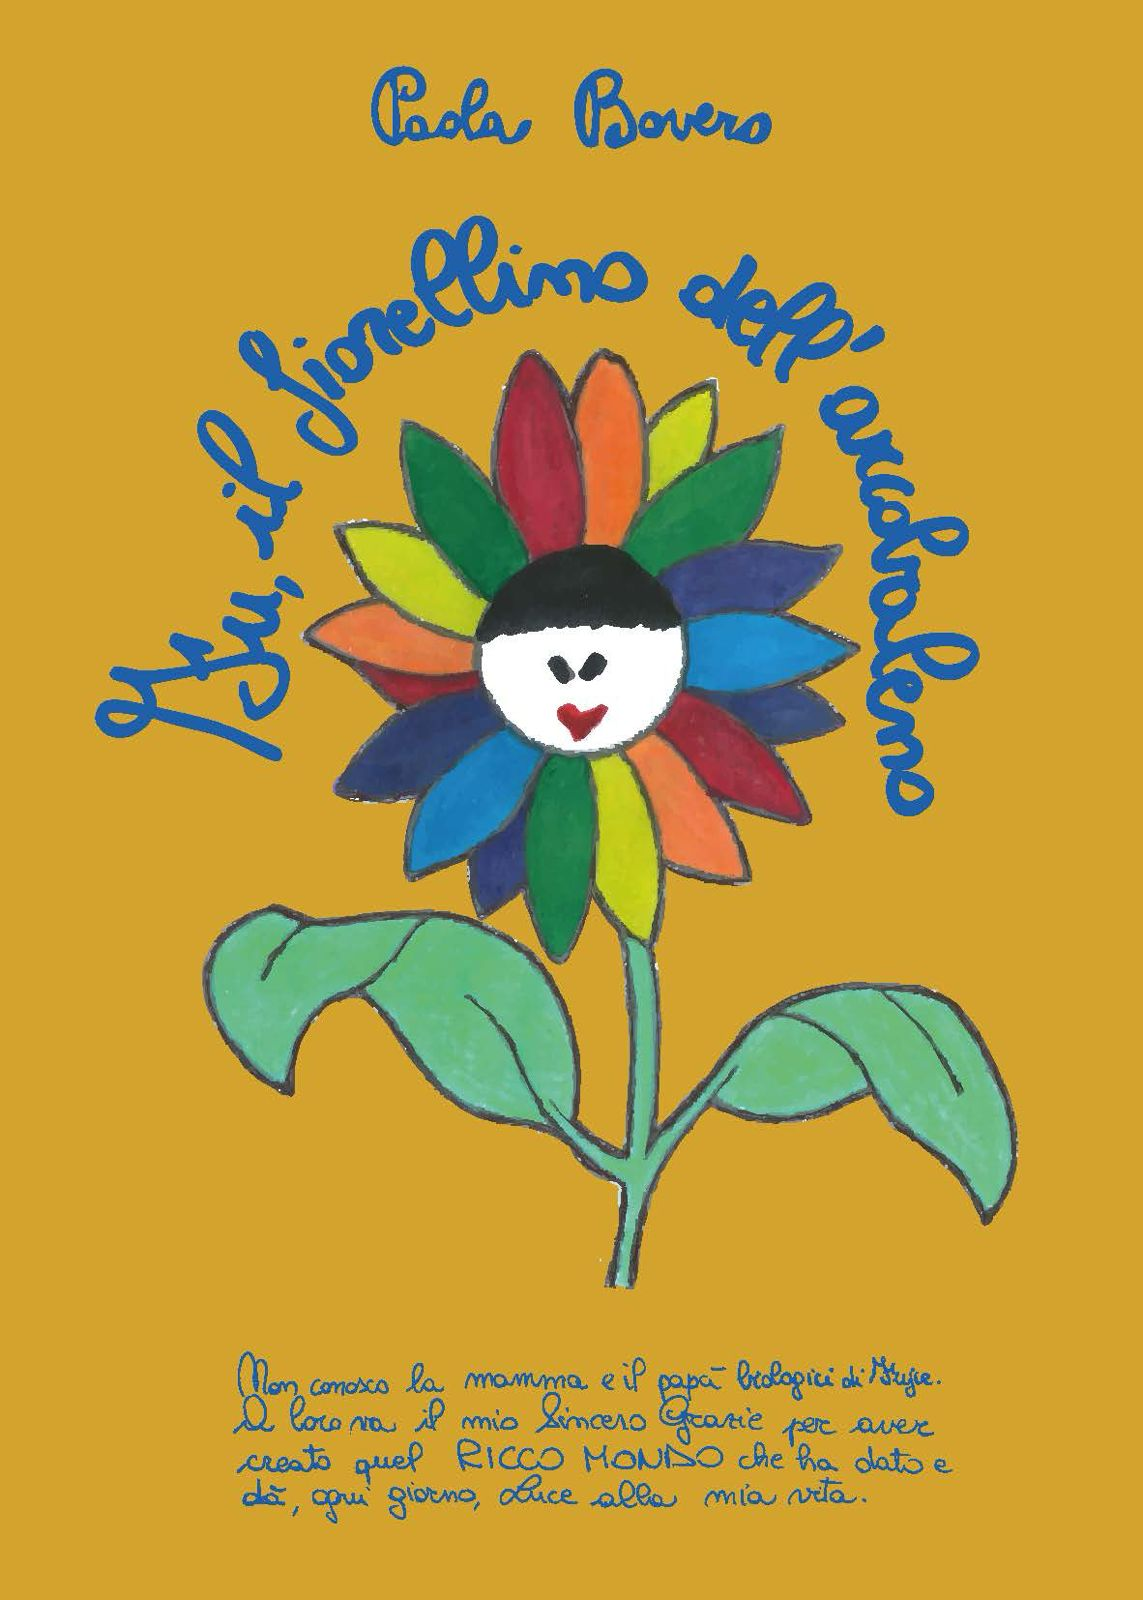
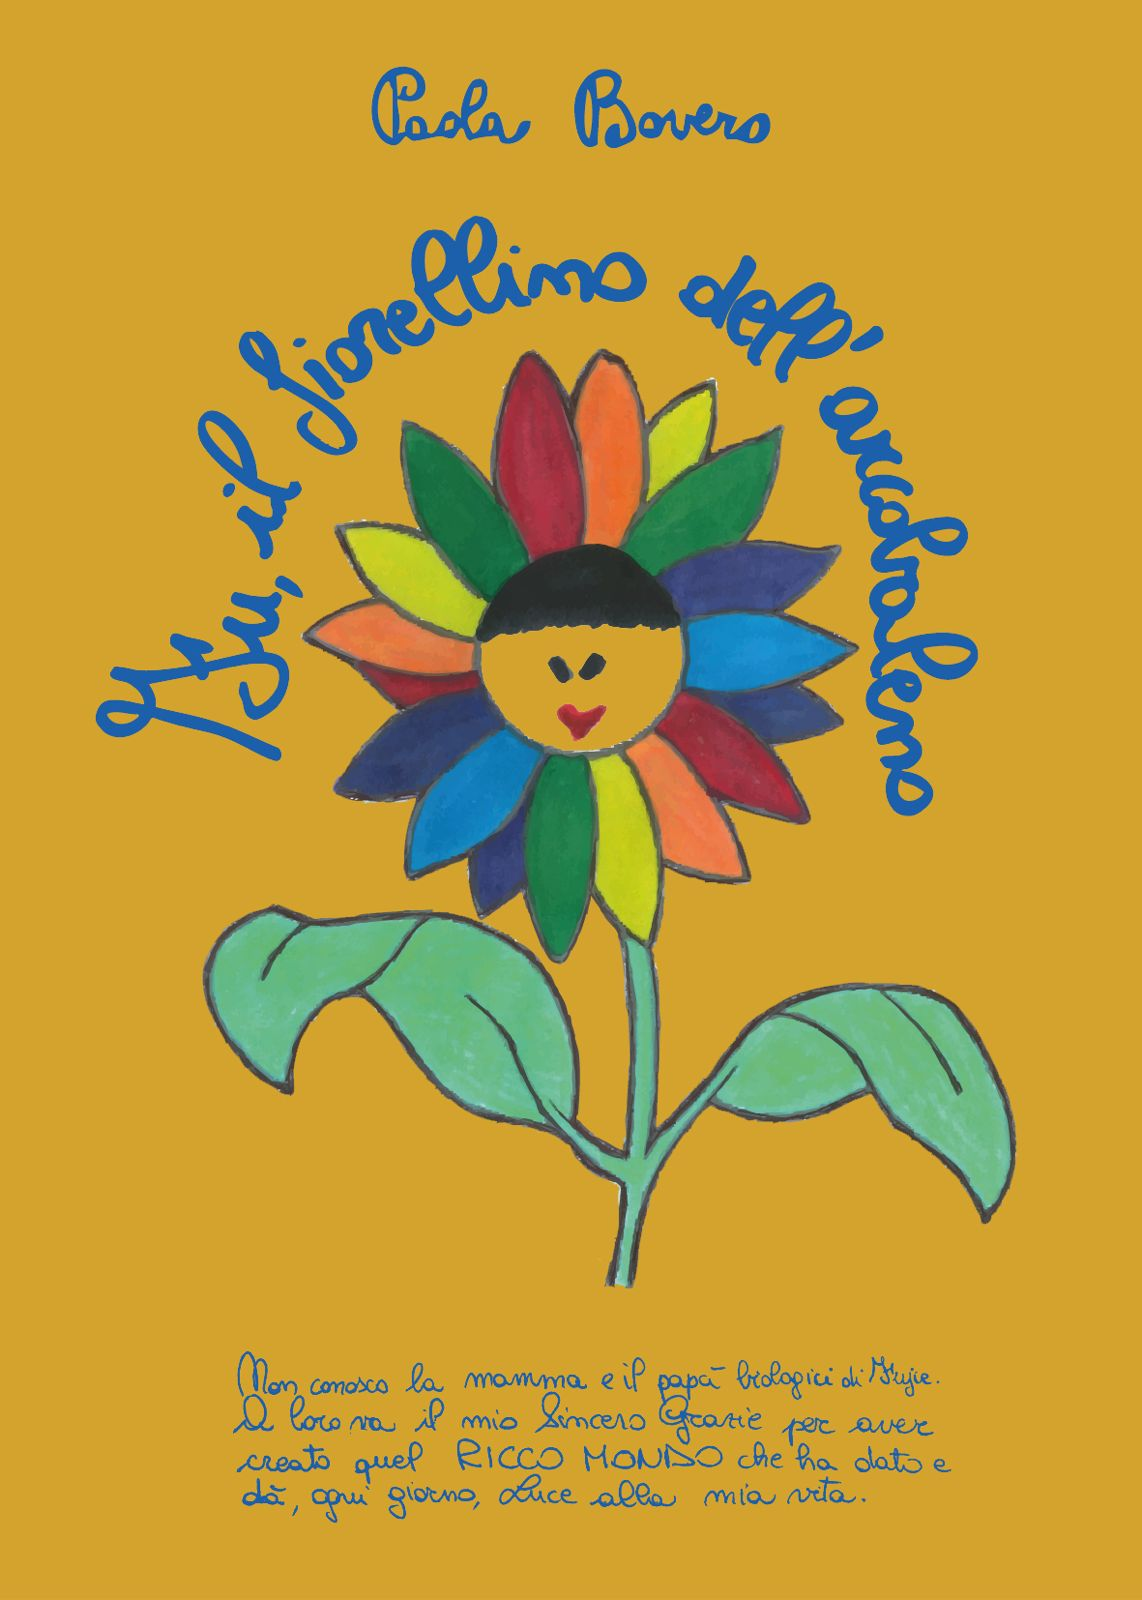
Fix Libri

diff --git a/static/css/style.css b/static/css/style.css
@@ -173,6 +173,23 @@ html {
   margin-bottom: 8px;    /* controlliamo lo spazio sotto l’H2 */
 }
 
+@media (max-width: 768px) {
+
+  .main-nav ul {
+    flex-wrap: wrap;
+    gap: 15px;
+  }
+
+  .main-nav a {
+    font-size: 1.05rem;
+  }
+
+  .site-header {
+    padding: 15px 0;
+  }
+
+}
+
 /* FRASE POETICA */
 
 .section-quote {
@@ -851,6 +868,19 @@ html {
   width: 1px;
   height: 80%;
   background: rgba(199, 154, 43, 0.35);
+}
+
+@media (max-width: 768px) {
+
+  footer {
+    text-align: center;
+  }
+
+  .footer-inner {
+    flex-direction: column;
+    gap: 10px;
+  }
+
 }
 
 /* SCROLL */

diff --git a/layouts/_default/baseof.html b/layouts/_default/baseof.html
@@ -128,6 +128,13 @@ document.addEventListener("DOMContentLoaded", () => {
   });
 });
 </script>
+
+<script>
+document.querySelectorAll("img").forEach(img => {
+  img.addEventListener("contextmenu", e => e.preventDefault());
+});
+</script>
+
 <button id="backToTop" aria-label="Torna su">↑</button>
 </body>
 </html>

diff --git a/content/libri/fu-il-fiorellino-dell-arcobaleno.md b/content/libri/fu-il-fiorellino-dell-arcobaleno.md
@@ -1,7 +1,7 @@
 ---
 title: "« Fu, Il fiorellino dell’arcobaleno »"
 subtitle: ""
-cover: "/img/fuok.jpeg"
+cover: "/img/fu.jpeg"
 images:
   - "/img/percorsi.jpg"
   - "/img/galleria/12.jpeg"
